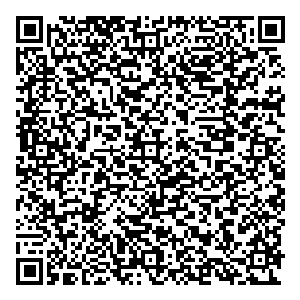
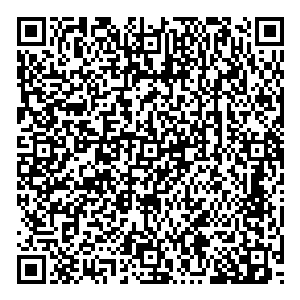
sender change

diff --git a/controllers/sendMessage.js b/controllers/sendMessage.js
@@ -1,6 +1,7 @@
 const db = require("../db/db");
 const jwt = require("jsonwebtoken");
 const axios = require("axios");
+const sender = 6762347
 
 const sendMsgAddLitr = async (req, res) => {
   const { data } = req.body;
@@ -35,7 +36,7 @@ const sendMsgAddLitr = async (req, res) => {
         cascades: [
           {
             transport: "SMS",
-            senderId: 6486204,
+            senderId: sender,
             validityPeriod: "1",
             messageObject: {
               type: "SMS",
@@ -120,7 +121,7 @@ const sendRestartModule = async (req, res) => {
         cascades: [
           {
             transport: "SMS",
-            senderId: 6486204,
+            senderId: sender,
             validityPeriod: "1",
             messageObject: {
               type: "SMS",
@@ -207,7 +208,7 @@ const sendCollectCash = async (req, res) => {
         cascades: [
           {
             transport: "SMS",
-            senderId: 6486204,
+            senderId: sender,
             validityPeriod: "1",
             messageObject: {
               type: "SMS",
@@ -302,7 +303,7 @@ const sendPriceForLitr = async (req, res) => {
         cascades: [
           {
             transport: "SMS",
-            senderId: 6486204,
+            senderId: sender,
             validityPeriod: "1",
             messageObject: {
               type: "SMS",
@@ -388,7 +389,7 @@ console.log(token);
         cascades: [
           {
             transport: "SMS",
-            senderId: 6486204,
+            senderId: sender,
             validityPeriod: "1",
             messageObject: {
               type: "SMS",
@@ -474,7 +475,7 @@ const changePin = async (req, res) => {
         cascades: [
           {
             transport: "SMS",
-            senderId: 6486204,
+            senderId: sender,
             validityPeriod: "1",
             messageObject: {
               type: "SMS",
@@ -657,7 +658,7 @@ const changeToken = async (req, res) => {
         cascades: [
           {
             transport: "SMS",
-            senderId: 6486204,
+            senderId: sender,
             validityPeriod: "1",
             messageObject: {
               type: "SMS",
@@ -751,7 +752,7 @@ const changeAddress = async (req, res) => {
         cascades: [
           {
             transport: "SMS",
-            senderId: 6486204,
+            senderId: sender,
             validityPeriod: "1",
             messageObject: {
               type: "SMS",
@@ -844,7 +845,7 @@ const changeServiceNumber = async (req, res) => {
         cascades: [
           {
             transport: "SMS",
-            senderId: 6486204,
+            senderId: sender,
             validityPeriod: "1",
             messageObject: {
               type: "SMS",
